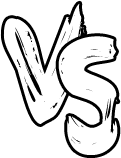
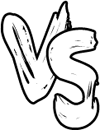
neue IMGs und Counter

diff --git a/assets/js/main.js b/assets/js/main.js
@@ -1,6 +1,9 @@
 let maxRounds = 5;
 const rightBox = document.querySelector('.rightBox');
+const roundBox = document.querySelector('.roundBox');
 const desk = document.querySelector('.desk');
+
+roundBox.style.display = 'none';
 
 let numberOfRounds = document.querySelectorAll('input[type=radio][name=rounds]');
 numberOfRounds.forEach(radio => radio.addEventListener('change', () => {
@@ -49,7 +52,7 @@ const game = () => {
                 console.log(maxRounds)
                 moves++;
                 count -= moves;
-                movesLeft.innerText = `Verbleibende Runden: ${count} von ${maxRounds}`;
+                movesLeft.innerText = `${count} / ${maxRounds}`;
 
                 console.log(movesLeft.innerText)
                 console.log(count)
@@ -80,65 +83,66 @@ const game = () => {
         console.log(player)
         console.log('%c Created with Love ', ' color: #f0f');
         if (player === computer) {
-            result.innerHTML = '<img src="../img/win' + player + '.png" alt="-">   <img src="../img/win' + computer + '.png" alt="-">';
+            result.innerHTML = '<img src="../img/Pwin' + player + '.png" alt="-"><img src="../img/versus2.png" alt="vs"><img src="../img/Cwin' + computer + '.png" alt="-">';
         }
         else if (player == 'Schere') {
             if (computer == 'Stein' || computer == 'Spock') {
-                result.innerHTML = '<img src="../img/lose' + player + '.png" alt="-">  <img src="../img/win' + computer + '.png" alt="-">';
+                result.innerHTML = '<img src="../img/Plose' + player + '.png" alt="-"><img src="../img/versus2.png" alt="vs"><img src="../img/Cwin' + computer + '.png" alt="-">';
                 computerScore++;
                 computerScoreBoard.textContent = computerScore;
             } else {
-                result.innerHTML = '<img src="../img/win' + player + '.png" alt="-">  <img src="../img/lose' + computer + '.png" alt="-">';
+                result.innerHTML = '<img src="../img/Pwin' + player + '.png" alt="-"><img src="../img/versus2.png" alt="vs"><img src="../img/Close' + computer + '.png" alt="-">';
                 playerScore++;
                 playerScoreBoard.textContent = playerScore;
             }
         }
         else if (player == 'Stein') {
             if (computer == 'Papier' || computer == 'Spock') {
-                result.innerHTML = '<img src="../img/lose' + player + '.png" alt="-">   <img src="../img/win' + computer + '.png" alt="-">';
+                result.innerHTML = '<img src="../img/Plose' + player + '.png" alt="-"><img src="../img/versus2.png" alt="vs"><img src="../img/Cwin' + computer + '.png" alt="-">';
                 computerScore++;
                 computerScoreBoard.textContent = computerScore;
 
             } else {
-                result.innerHTML = '<img src="../img/win' + player + '.png" alt="-">  <img src="../img/lose' + computer + '.png" alt="-">';
+                result.innerHTML = '<img src="../img/Pwin' + player + '.png" alt="-"><img src="../img/versus2.png" alt="vs"><img src="../img/Close' + computer + '.png" alt="-">';
                 playerScore++;
                 playerScoreBoard.textContent = playerScore;
             }
         }
         else if (player == 'Papier') {
             if (computer == 'Schere' || computer == 'Echse') {
-                result.innerHTML = '<img src="../img/lose' + player + '.png" alt="-">  <img src="../img/win' + computer + '.png" alt="-">';
+                result.innerHTML = '<img src="../img/Plose' + player + '.png" alt="-"><img src="../img/versus2.png" alt="vs"><img src="../img/Cwin' + computer + '.png" alt="-">';
                 computerScore++;
                 computerScoreBoard.textContent = computerScore;
             } else {
-                result.innerHTML = '<img src="../img/win' + player + '.png" alt="-">  <img src="../img/lose' + computer + '.png" alt="-">';
+                result.innerHTML = '<img src="../img/Pwin' + player + '.png" alt="-"><img src="../img/versus2.png" alt="vs"><img src="../img/Close' + computer + '.png" alt="-">';
                 playerScore++;
                 playerScoreBoard.textContent = playerScore;
             }
         }
         else if (player == 'Echse') {
             if (computer == 'Stein' || computer == 'Schere') {
-                result.innerHTML = '<img src="../img/lose' + player + '.png" alt="-">   <img src="../img/win' + computer + '.png" alt="-">';
+                result.innerHTML = '<img src="../img/Plose' + player + '.png" alt="-"><img src="../img/versus2.png" alt="vs"><img src="../img/Cwin' + computer + '.png" alt="-">';
                 computerScore++;
                 computerScoreBoard.textContent = computerScore;
             } else {
-                result.innerHTML = '<img src="../img/win' + player + '.png" alt="-">   <img src="../img/lose' + computer + '.png" alt="-">';
+                result.innerHTML = '<img src="../img/Pwin' + player + '.png" alt="-"><img src="../img/versus2.png" alt="vs"><img src="../img/Close' + computer + '.png" alt="-">';
                 playerScore++;
                 playerScoreBoard.textContent = playerScore;
             }
         }
         else if (player == 'Spock') {
             if (computer == 'Echse' || computer == 'Papier') {
-                result.innerHTML = '<img src="../img/lose' + player + '.png" alt="-">   <img src="../img/win' + computer + '.png" alt="-">';
+                result.innerHTML = '<img src="../img/Plose' + player + '.png" alt="-"><img src="../img/versus2.png" alt="vs"><img src="../img/Cwin' + computer + '.png" alt="-">';
                 computerScore++;
                 computerScoreBoard.textContent = computerScore;
             } else {
-                result.innerHTML = '<img src="../img/win' + player + '.png" alt="-">   <img src="../img/lose' + computer + '.png" alt="-">';
+                result.innerHTML = '<img src="../img/Pwin' + player + '.png" alt="-"><img src="../img/versus2.png" alt="vs"><img src="../img/Close' + computer + '.png" alt="-">';
                 playerScore++;
                 playerScoreBoard.textContent = playerScore;
             }
         }
         rightBox.style.display = 'none';
+        roundBox.style.display = 'flex';
     }
 
 
@@ -157,6 +161,7 @@ const game = () => {
 
         movesLeft.style.display = 'none';
         desk.style.display = 'none';
+        roundBox.style.display = 'none';
 
 
 

diff --git a/assets/SASS/main.scss b/assets/SASS/main.scss
@@ -55,7 +55,30 @@ img{
     border-radius: 6px;
     box-shadow: 2px 2px 4px #222;
 }
+.roundBox {
+    position: absolute;
+    top: 21%;
+    left: 5%;
+    width: 200px;
+    text-align: center;
+    justify-content: center;
+    justify-items: center;
+    padding: 1rem 2rem;
+    background-color: rgba(0, 0, 0, 0.25);
+    border: 2px solid #333;
+    border-radius: 6px;
+    z-index: 0;
+}
+.movesleft{
+    font-family: 'Colleged';
+    font-size: 1.5rem;
+    color: rgb(255, 255, 255);
+    text-align: center;
+}
+
 .score{
+    position: absolute;
+    top: 3%;
 	display: flex;
 	width: 40%;
 	justify-content: space-evenly;
@@ -81,10 +104,14 @@ img{
 .result{
     text-align: center;
     width: 50%;
-    margin: 5% auto;
+    margin: 10% auto 5% auto;
     img{
         width: 30%;
         padding: 0 2%;
+    }
+    img:nth-of-type(2){
+        width: 20%;
+        padding: 0 1%;
     }
 }
 
@@ -94,39 +121,47 @@ img{
     border-radius: 8px;
     box-shadow: 2px 2px 4px #333;
     background: #a9a9a9;
-    z-index: 10;
 }
 .options{
     padding: 2% 1%;
 	margin: 1% auto 0.5% auto;
     width: 90%;
     background: #a9a9a9;
-    z-index: 10;
 }
 
+
 .Schere, .Stein, .Papier, .Echse, .Spock{
+    position: relative;
     background: #a9a9a9;
-	width: 18%;
+	width: 17%;
 	outline: none;
 	border: none;
 	cursor: pointer;
+    margin: 2% 1% 0 1%;
     padding: 0 1rem;
+    transition: all .5s linear;
 }
 
 .Schere:hover, .Stein:hover, .Papier:hover, .Echse:hover, .Spock:hover{
-    width: 19%;
+    margin:0 0.5% 0 0.5%;
+    width: 18%;
     transition: all .3s linear;
+    z-index: 15;
 }
+// .Schere:hover, .Stein:hover, .Papier:hover, .Echse:hover, .Spock:hover{
+//     width: 19%;
+//     transition: all .3s linear;
+//     z-index: 15;
+// }
 
 .move{
     margin: 2% 0;
 	font-size: clamp(1rem, 2.5vw, 2rem); 
 	font-weight: bold;
     text-align: center;
+    background: #f00;
 }
-.movesleft{
-    color: #FFF;
-}
+
 
 .restart {
 	display: none;

diff --git a/assets/SASS/main.css b/assets/SASS/main.css
@@ -59,7 +59,31 @@ img {
   box-shadow: 2px 2px 4px #222;
 }
 
+.roundBox {
+  position: absolute;
+  top: 21%;
+  left: 5%;
+  width: 200px;
+  text-align: center;
+  justify-content: center;
+  justify-items: center;
+  padding: 1rem 2rem;
+  background-color: rgba(0, 0, 0, 0.25);
+  border: 2px solid #333;
+  border-radius: 6px;
+  z-index: 0;
+}
+
+.movesleft {
+  font-family: "Colleged";
+  font-size: 1.5rem;
+  color: white;
+  text-align: center;
+}
+
 .score {
+  position: absolute;
+  top: 3%;
   display: flex;
   width: 40%;
   justify-content: space-evenly;
@@ -86,11 +110,15 @@ img {
 .result {
   text-align: center;
   width: 50%;
-  margin: 5% auto;
+  margin: 10% auto 5% auto;
 }
 .result img {
   width: 30%;
   padding: 0 2%;
+}
+.result img:nth-of-type(2) {
+  width: 20%;
+  padding: 0 1%;
 }
 
 .desk {
@@ -99,7 +127,6 @@ img {
   border-radius: 8px;
   box-shadow: 2px 2px 4px #333;
   background: #a9a9a9;
-  z-index: 10;
 }
 
 .options {
@@ -107,21 +134,25 @@ img {
   margin: 1% auto 0.5% auto;
   width: 90%;
   background: #a9a9a9;
-  z-index: 10;
 }
 
 .Schere, .Stein, .Papier, .Echse, .Spock {
+  position: relative;
   background: #a9a9a9;
-  width: 18%;
+  width: 17%;
   outline: none;
   border: none;
   cursor: pointer;
+  margin: 2% 1% 0 1%;
   padding: 0 1rem;
+  transition: all 0.5s linear;
 }
 
 .Schere:hover, .Stein:hover, .Papier:hover, .Echse:hover, .Spock:hover {
-  width: 19%;
+  margin: 0 0.5% 0 0.5%;
+  width: 18%;
   transition: all 0.3s linear;
+  z-index: 15;
 }
 
 .move {
@@ -129,10 +160,7 @@ img {
   font-size: clamp(1rem, 2.5vw, 2rem);
   font-weight: bold;
   text-align: center;
-}
-
-.movesleft {
-  color: #FFF;
+  background: #f00;
 }
 
 .restart {

diff --git a/assets/pages/game.html b/assets/pages/game.html
@@ -37,6 +37,10 @@
             </div>
         </div>
 
+        <div class="roundBox">
+            <div class="movesleft"></div>
+        </div>
+
         <div class="acc">
             <div class="choice">
                 <input type="radio" class="open" name="ac" id="rules">
@@ -59,7 +63,7 @@
         </div>
 
         <section class="game">
-            <div class="movesleft"></div>
+            <!-- <div class="movesleft"></div> -->
             <div class="score">
                 <div class="playerScore">
                     <p>Spieler</p>
@@ -71,8 +75,8 @@
                 </div>
             </div>
 
-            <div class="result"><img src="../img/startPlayer.png" alt="win"> <img src="../img/startComputer.png"
-                    alt="win">
+            <div class="result"><img src="../img/startPlayer.png" alt="win"><img src="../img/versus2.png" alt="vs"><img
+                    src="../img/startComputer.png" alt="win">
             </div>
 
             <div class="desk">
